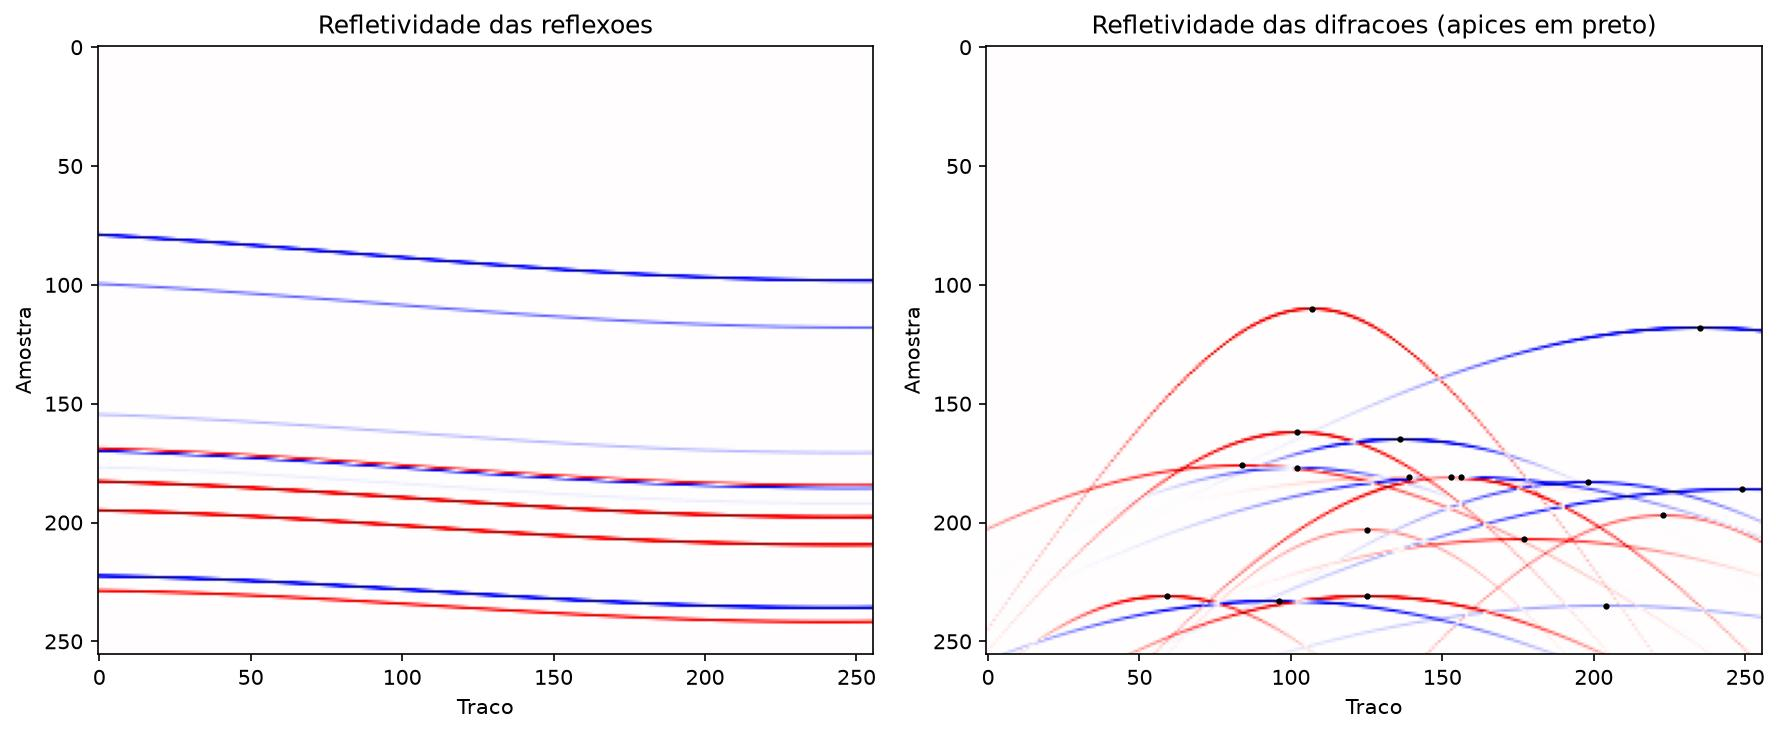
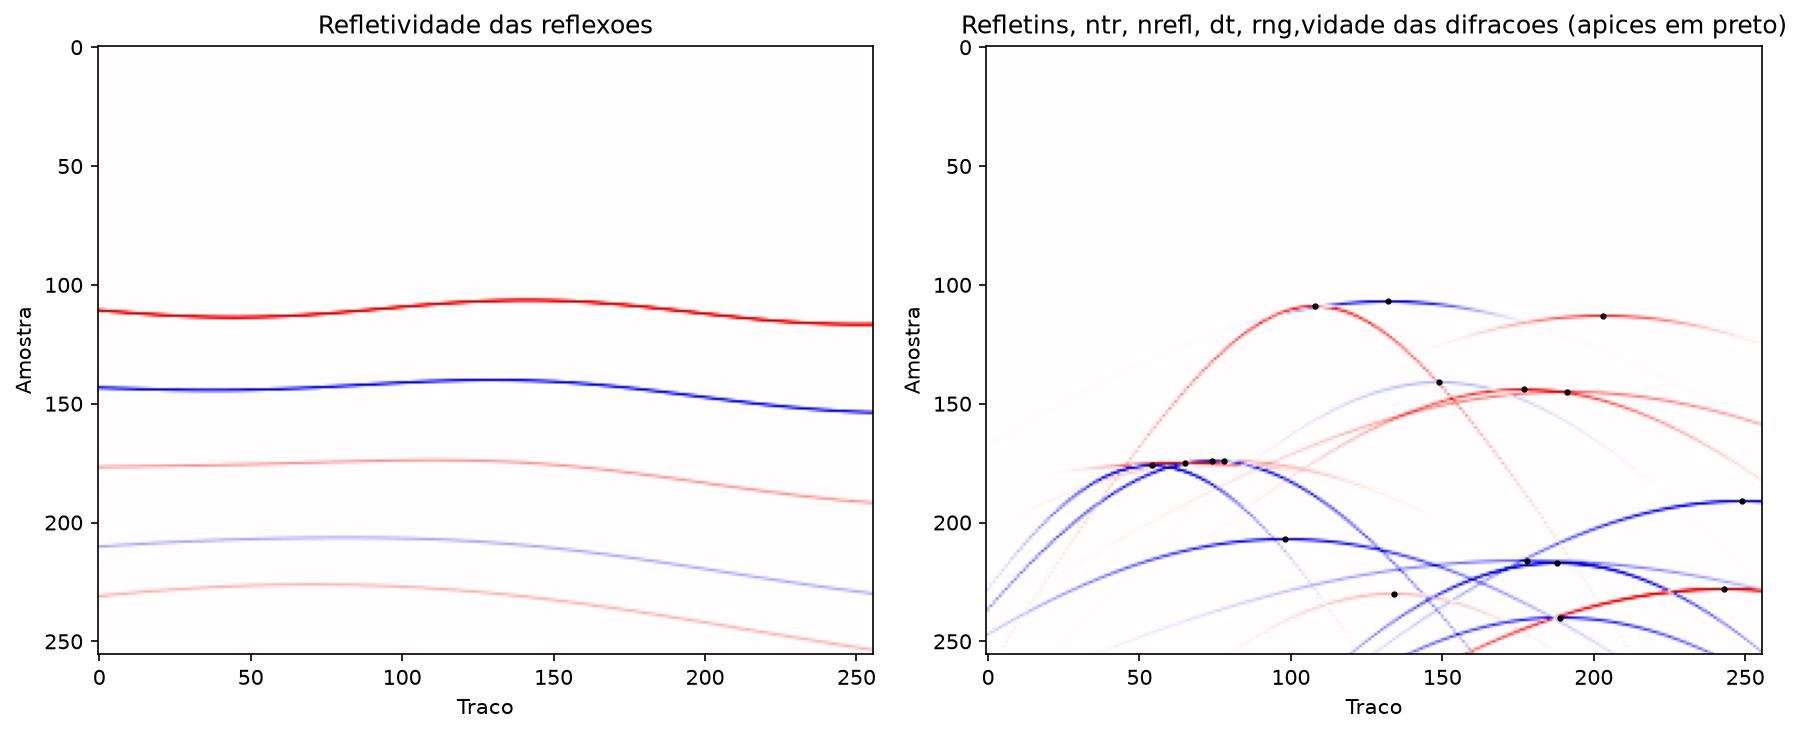
Update reflector count in diffraction modeling to 5

diff --git a/processamento/refletividade_2d_difracoes.py b/processamento/refletividade_2d_difracoes.py
@@ -6,7 +6,7 @@ from helper import pulso_ricker, convolve_secao, adiciona_ruido_snr, salva_su
 
 ns=256          # amostras
 ntr=256         # tracos
-nrefl=70        # numero de refletores
+nrefl=5        # numero de refletores
 dt=0.006        # taxa amostragem
 dx=12.5         # espacamento entre tracos (m)
 ndif=(5, 20)    # intervalo do numero de difracoes
